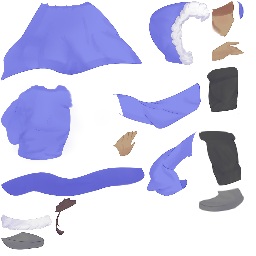
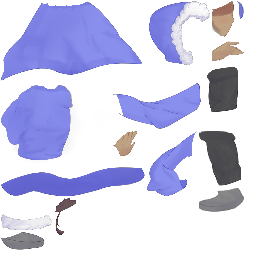
fix the black outlines making certain portions of the character animation stand out

diff --git a/src/main/java/hydrologistmod/character/HydrologistCharacter.java b/src/main/java/hydrologistmod/character/HydrologistCharacter.java
@@ -78,9 +78,7 @@ public class HydrologistCharacter extends CustomPlayer {
 
     @Override
     public void renderPlayerImage(SpriteBatch sb) {
-        sr.setPremultipliedAlpha(false);
         super.renderPlayerImage(sb);
-        sr.setPremultipliedAlpha(true);
         waterCoords.set(waterBone.getWorldX() + skeleton.getX(), waterBone.getWorldY() + skeleton.getY());
         waterbending.update(waterCoords);
         waterbending.render(sb);
